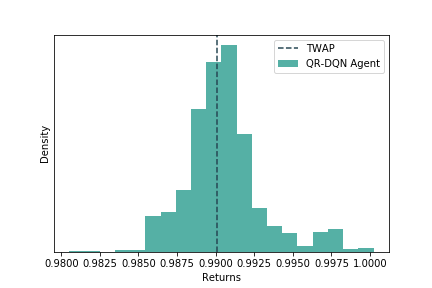
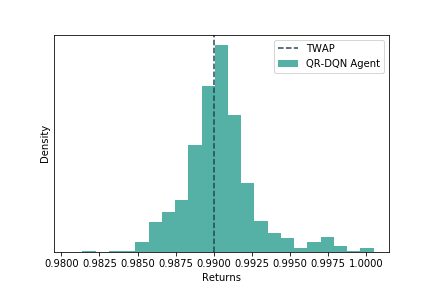
cluster

Changed region(s): [[0.2708, 0.125, 0.9028, 0.9375]]

diff --git a/cluster_sim_l2.py b/cluster_sim_l2.py
@@ -35,7 +35,7 @@ params = {
     "num_trades" : n_steps,
     "position" : 10000,
     "batch_size" : 64,
-    "action_values" : [[0.5,5],[1,0],[2,0],
+    "action_values" : [[0.5,4],[1,0],[2,0],
                        [0.25,2],[0.5,2],[1,1],
                        [0,0.5],[0,1],[0,2],
                        [1,4],[1,3]]
@@ -48,7 +48,7 @@ harry = library.agents.distAgentsWIP2.QRAgent(state_size, params["action_values"
 tim = library.agents.baseAgents.TWAPAgent(1,"TWAP",11)
 agent = harry
 
-stock = library.market_modelsM.real_stock_lob(merged,n_steps=n_steps,n_train=20)
+stock = library.market_modelsM.real_stock_lob(merged,n_steps=n_steps,n_train=30)
 market = library.market_modelsM.lob_market(stock,n_hist_data)
 
 agent.learning_rate = lr
